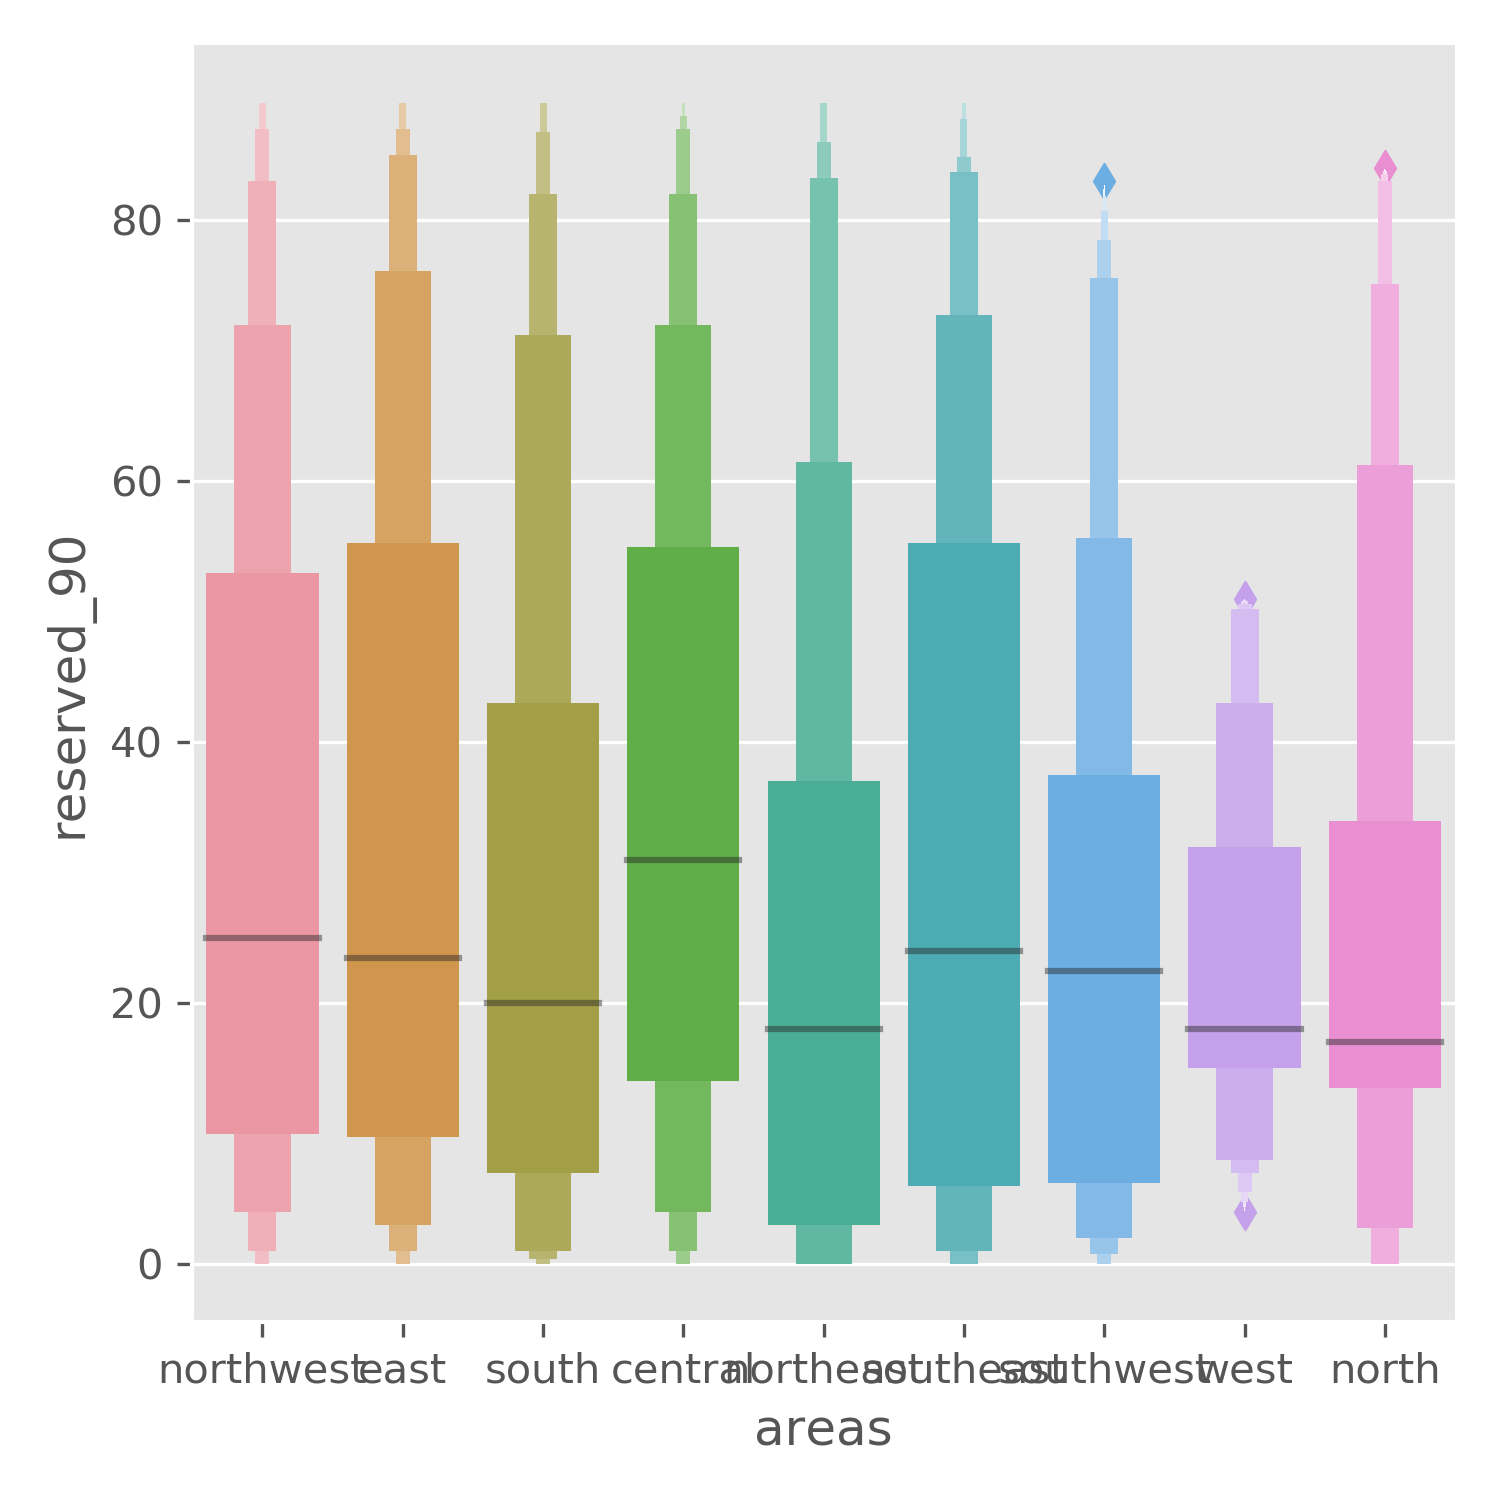
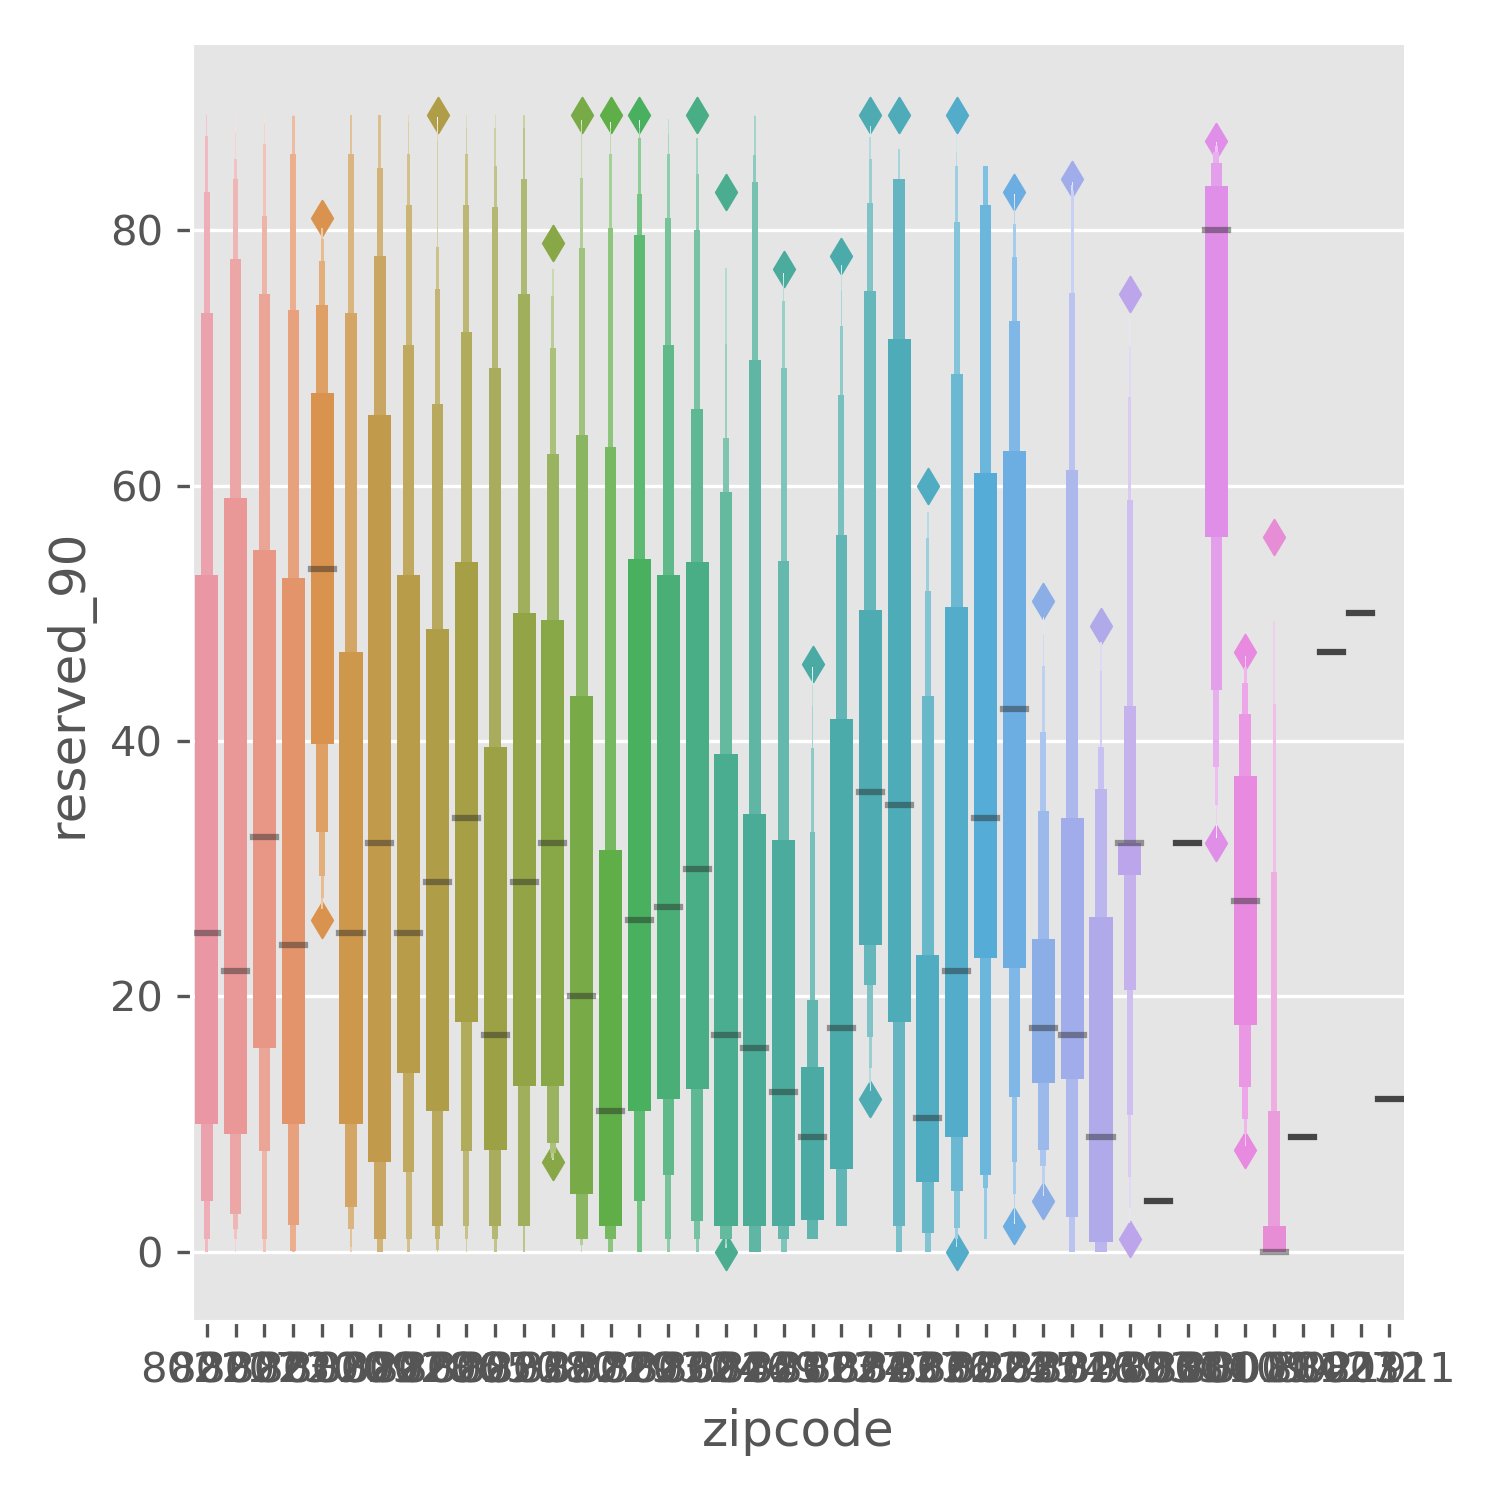
m

diff --git a/src/airbnb.py b/src/airbnb.py
@@ -187,156 +187,7 @@ print(roomtypes)
 # # print(means)
 # # print(num_listings)
 # print(zc_dict.get('80212')['price'])
-def euclidean_distance(a, b):
-    """Compute the euclidean distance between two numpy arrays.
 
-    Parameters
-    ----------
-    a: numpy array
-    b: numpy array
-
-    Returns
-    -------
-    distance: float
-    """
-    return np.sqrt(np.dot(a - b, a - b))
-"""
-Functions and classes to complete non-parametric-learners individual exercise.
-
-Implementation of kNN algorithm modeled on sci-kit learn functionality.
-
-TODO: Improve '__main__' to allow flexible running of script
-    (different ks, different number of classes)
-"""
-
-import numpy as np
-import pandas as pd
-from collections import Counter
-from sklearn.datasets import make_classification
-from matplotlib.colors import ListedColormap
-import matplotlib.pyplot as plt
-import sys
-
-
-def euclidean_distance(a, b):
-    """Compute the euclidean distance between two numpy arrays.
-
-    Parameters
-    ----------
-    a: numpy array
-    b: numpy array
-
-    Returns
-    -------
-    distance: float
-    """
-    return np.sqrt(np.dot(a - b, a - b))
-
-
-def cosine_distance(a, b):
-    """Compute the cosine dissimilarity between two numpy arrays.
-
-    Parameters
-    ----------
-    a: numpy array
-    b: numpy array
-
-    Returns
-    -------
-    distance: float
-    """
-    return 1 - np.dot(a, b) / np.sqrt(np.dot(a, a) * np.dot(b, b))
-
-def manhattan_distance(a, b):
-    """Compute the manhattan distance between two numpy arrays.
-
-    Parameters
-    ----------
-    a: numpy array
-    b: numpy array
-
-    Returns
-    -------
-    distance: float
-    """
-    return np.sum(np.abs(a - b))
-
-
-class KNNRegressor:
-    """Regressor implementing the k-nearest neighbors algorithm.
-
-    Parameters
-    ----------
-    k: int, optional (default = 5)
-        Number of neighbors that are included in the prediction.
-    distance: function, optional (default = euclidean)
-        The distance function to use when computing distances.
-    """
-
-    def __init__(self, k=5, distance=euclidean_distance, weighted=False):
-        """Initialize a KNNRegressor object."""
-        self.k = k
-        self.distance = distance
-        self.weighted = weighted
-
-    def fit(self, X, y):
-        """Fit the model using X as training data and y as target values.
-
-        According to kNN algorithm, the training data is simply stored.
-
-        Parameters
-        ----------
-        X: numpy array, shape = (n_observations, n_features)
-            Training data.
-        y: numpy array, shape = (n_observations,)
-            Target values.
-
-        Returns
-        -------
-        self
-        """
-        self.X_train = X
-        self.y_train = y
-
-    def predict(self, X):
-        """Return the predicted values for the input X test data.
-
-        Assumes shape of X is [n_test_observations, n_features] where
-        n_features is the same as the n_features for the input training
-        data.
-
-        Parameters
-        ----------
-        X: numpy array, shape = (n_observations, n_features)
-            Test data.
-
-        Returns
-        -------
-        result: numpy array, shape = (n_observations,)
-            Predicted values for each test data sample.
-
-        """
-        num_train_rows, num_train_cols = self.X_train.shape
-        num_X_rows, _ = X.shape
-        X = X.reshape((-1, num_train_cols))
-        distances = np.zeros((num_X_rows, num_train_rows))
-        for i, x in enumerate(X):
-            for j, x_train in enumerate(self.X_train):
-                distances[i, j] = self.distance(x_train, x)
-        # Sort and take top k
-        k_closest_idx = distances.argsort()[:, :self.k]
-        top_k = self.y_train[k_closest_idx]
-        if self.weighted:
-            # This is serious advanced numpy indexing. Both indexes are
-            # arrays, so the dimensions are braodcase together
-            # and the final shape is the shape of the result.
-            top_k_distances = distances[np.arange(num_X_rows)[:, None],
-                                        k_closest_idx]
-            # note this will break if predicting on training data, dividing by 0
-            result = np.average(top_k, axis=1, weights=1/top_k_distances)
-        else:
-            result = top_k.mean(axis=1)
-        return result
 print(df.property_type.unique())
 sdu = ['Guesthouse' ,'House','Cottage' ,
           'Bungalow','Bed and breakfast' ,
@@ -373,7 +224,7 @@ df = df[(df.availability_90!=0)]
 # df['ws']=ws
 feats=['reserved_90','log_price']
 for i in feats:
-    sns.catplot(x="areas", y=i, kind="boxen", data=df) #save this and resereved 90
+    sns.catplot(x="zipcode", y=i, kind="boxen", data=df) #save this and resereved 90
     fname = str(i)
     plt.savefig(fname,dpi=300)
 plt.tight_layout(pad=3)
